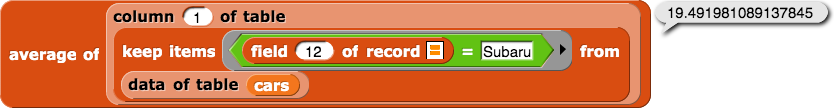
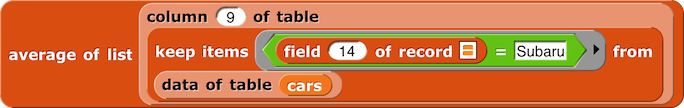
begin 5.3.4

diff --git a/cur/programming/5-algorithms/3-turning-data-information/4-filtering-data.html b/cur/programming/5-algorithms/3-turning-data-information/4-filtering-data.html
@@ -18,18 +18,16 @@
         <p>
             <div class="comment">DAT-2.D.4</div>
             You can ask questions about a specific subset of your data by <em>filtering</em> the data using <code>keep</code>. Filtering is a powerful technique for finding information and recognizing patterns in data. For example, filtering can help you answer questions like "What is the average city MPG <em>for just the Subarus</em> in this dataset?"<br />
-            <div class="comment">MARY: change this image so the block is what they made in 2.4: AVERAGE OF LIST. --MF, 4/30/20<br />Also change the columns to 12->14 and 1->9 -bh</div>
-            <img class="indent" src="/bjc-r/img/5-algorithms/average-mpg-of-subarus-reporting.png" alt="average of (column (1) of table (keep items (field (12) of record 'empty list input slot' = Subaru) from (data of table (cars))) reporting 19.49..." title="average of (column (1) of table (keep items (field (12) of record 'empty list input slot' = Subaru) from (data of table (cars))) reporting 19.49..." /><br />
-            Column 14 is the "Make" of the vehicle, so we <code>keep</code> all the items from <var>cars</var> where the 14<sup>th</sup> item is Subaru. Then, we take column 9 of that (the "City MPG") and take the average of those values.
+           <img class="indent" src="/bjc-r/img/5-algorithms/average-mpg-of-subarus-reporting.png" alt="average of (column (9) of table (keep items (field (14) of record 'empty list input slot' = Subaru) from (data of table (cars))) reporting 19.49..." title="average of (column (9) of table (keep items (field (14) of record 'empty list input slot' = Subaru) from (data of table (cars))) reporting 19.49..." /><br />
+            Column 14 is the "Make" of the vehicle, so we <code>keep</code> all the records from <var>cars</var> for which the 14<sup>th</sup> field is "Subaru." Then, we take column 9 of those records (the "City MPG") and find their average.
         </p>
         <div class="endnote">
-            <p>Notice that there are many digits in the answer above.  How many digits are in each car's MPG?  An important rule in data science is not to claim more precision in a result than is warranted by the given data, so this answer should be rounded to 19.</p>
+            <p>Notice that there are many digits in the answer above.  How many digits are given in the table for each car's MPG?  An important rule in data science is not to claim more precision in a result than is warranted by the given data, so this answer should be rounded to 19.</p>
             <p>You might find expressions with many nested function calls easier to build by using <code>pipe</code>. <a href="#hint-pipe" data-toggle="collapse" title="What would this look like using pipe?">What would this look like using <code>pipe</code>?</a>
                 <div id="hint-pipe" class="collapse">
                     <p>
                         You can use the <code>pipe</code> function from the "Bar Charts" library to work through your data analysis one function at at time:<br />
-                        <div class="comment">BH, please review revised alt/title text on this image. --MF, 6/27/19</div>
-                        <img class="indent" src="/bjc-r/img/5-algorithms/pipe-cars-reporting.png" alt="pipe (data of table (cars)) → (keep items (field (12) of record 'list input slot' = Subaru) from 'list input slot') (column (1) of table ()) (average of ()) reporting 19.49..." title="pipe (data of table (cars)) → (keep items (field (12) of record 'list input slot' = Subaru) from 'list input slot') (column (1) of table ()) (average of ()) reporting 19.49..." /><br />
+                       <img class="indent" src="/bjc-r/img/5-algorithms/pipe-cars-reporting.png" alt="pipe (data of table (cars)) → (keep items (field (14) of record 'list input slot' = Subaru) from 'list input slot') (column (9) of table ()) (average of ()) reporting 19.49..." title="pipe (data of table (cars)) → (keep items (field (14) of record 'list input slot' = Subaru) from 'list input slot') (column (9) of table ()) (average of ()) reporting 19.49..." /><br />
                         The <code>pipe</code> function sends the <code>data from table (</code><var>cars</var><code>)</code> through <code>keep</code> to filter it for just the Subarus, through <code>column (1) of table</code> to get just the "City MPG" for those Subarus, and finally through <code>average</code> to get the average of those Subaru MPG values.  
                     </p>
                     <p>Recall that the empty input slots in each function are filled by the output of the previous function (or the starting dataset in the case of the first function): the empty slots in the <code>keep</code> function are both filled by <code>data from table (</code><var>cars</var><code>)</code>; the empty slot in <code>column (1) of table</code> is filled by the output of <code>keep</code>; and the empty slot in <code>average</code> is filled by the output of <code>column (1) of table</code>. It's like a pipe of made of pieces connected together; the data goes in one end and works through each function, computing a new value at each step.</p>
@@ -72,7 +70,7 @@
         </p>
         <div class="endnote">
             <p><code>Find first</code> is a higher order function like <code>keep</code>, <code>map</code>, and <code>combine</code>, because it takes a function (a predicate) as input. (<code>Find first</code> is like <code>item (1) of (keep)</code>.)</p>
-            <div class="todo">Images need alt/title text. --MF, 6/27/19</div>
+            <div class="todo">Images need alt/title text. --MF, 6/27/19  and new column numbers -bh</div>
             <p>
                 <a href="#hint-findfirst" data-toggle="collapse" title="Click for an example of keep vs. find first.">Click for an example of <code>keep</code> vs. <code>find first</code>.</a>
                 <div id="hint-findfirst" class="collapse">
